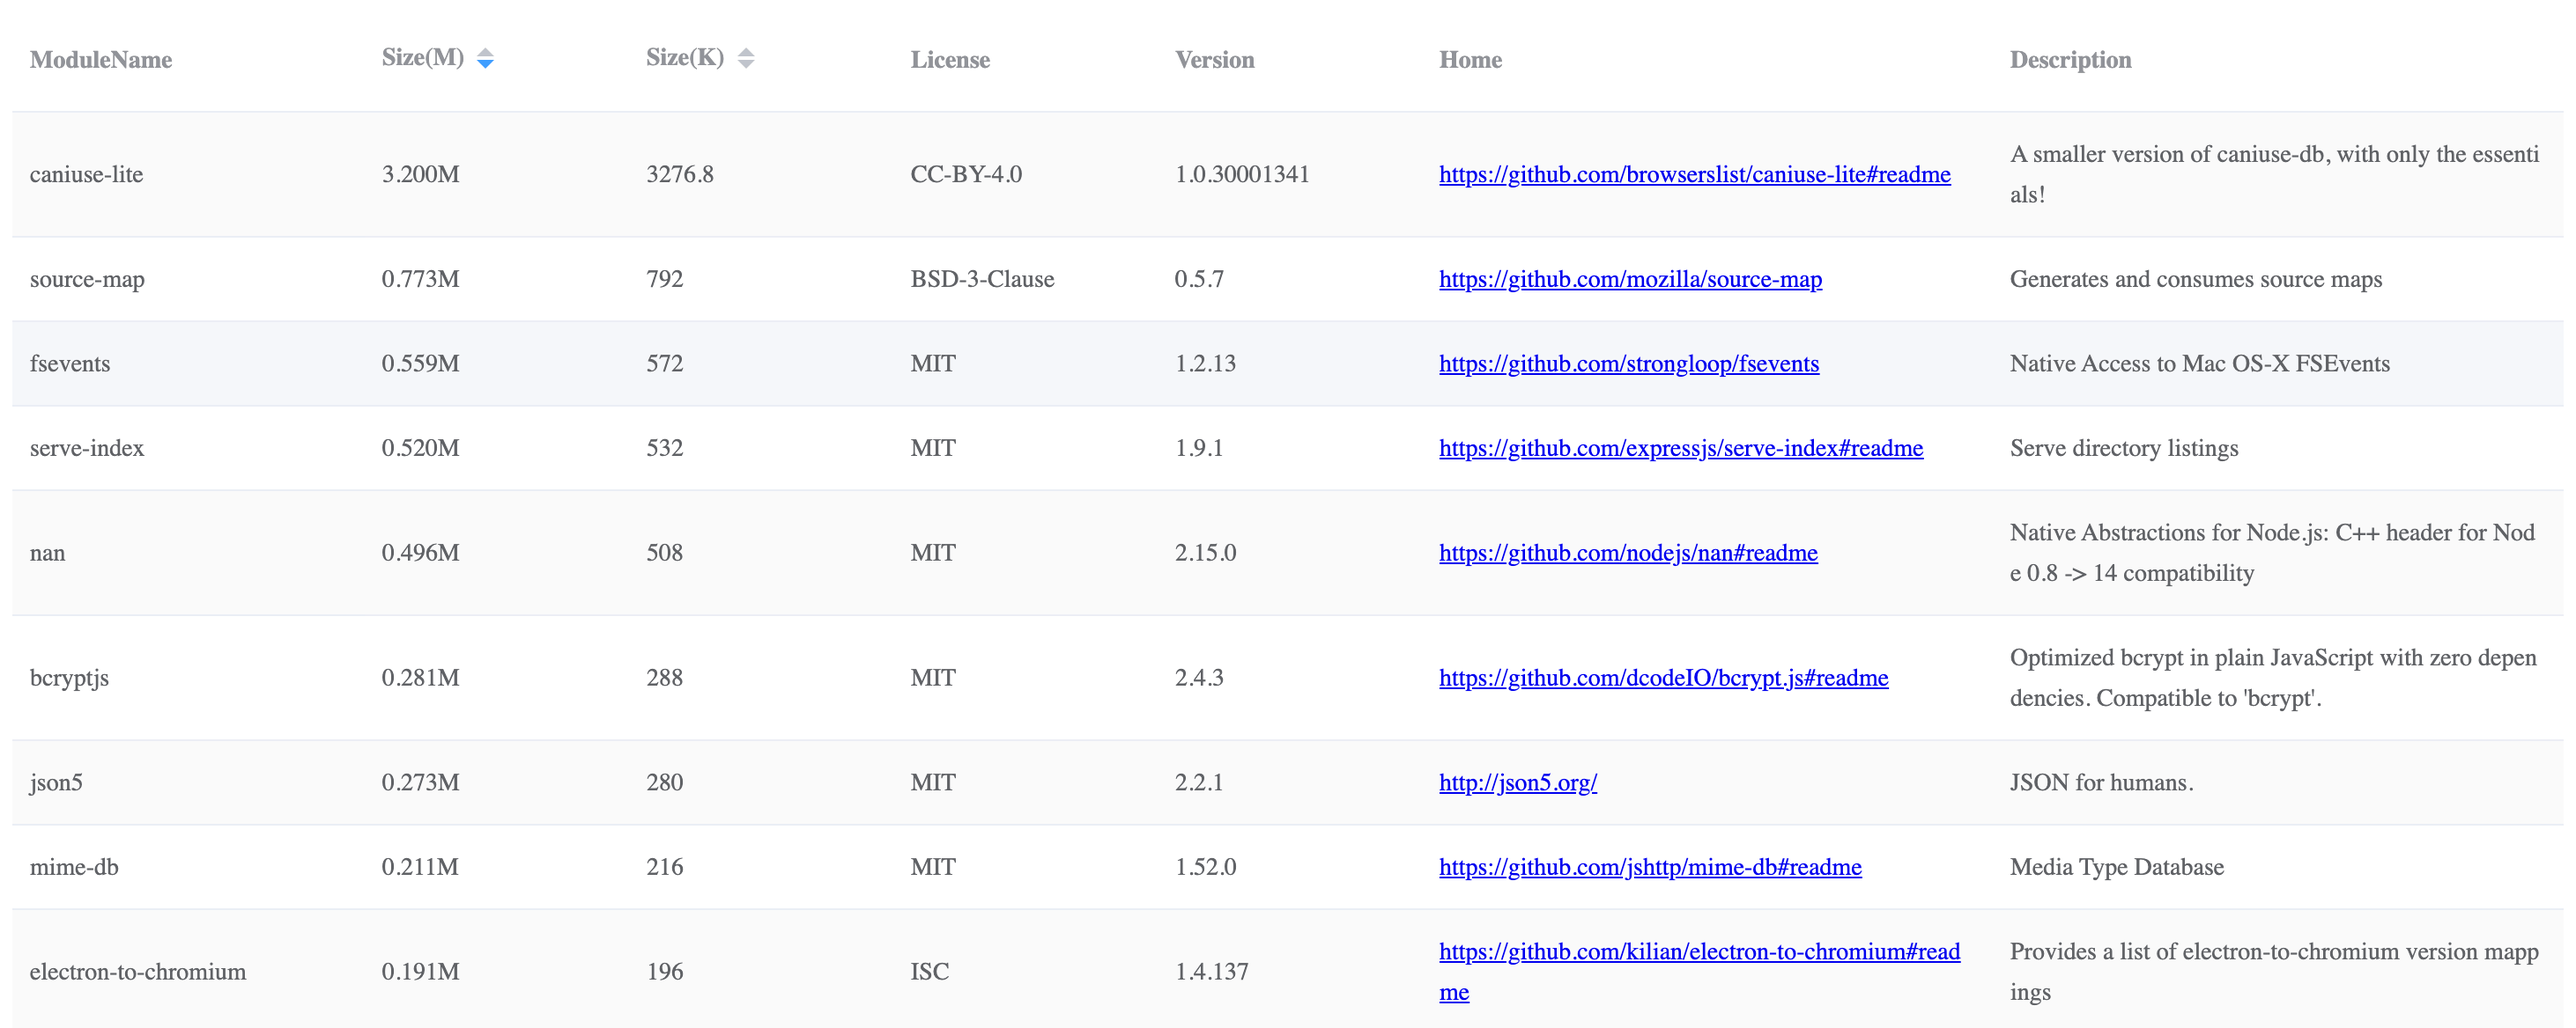
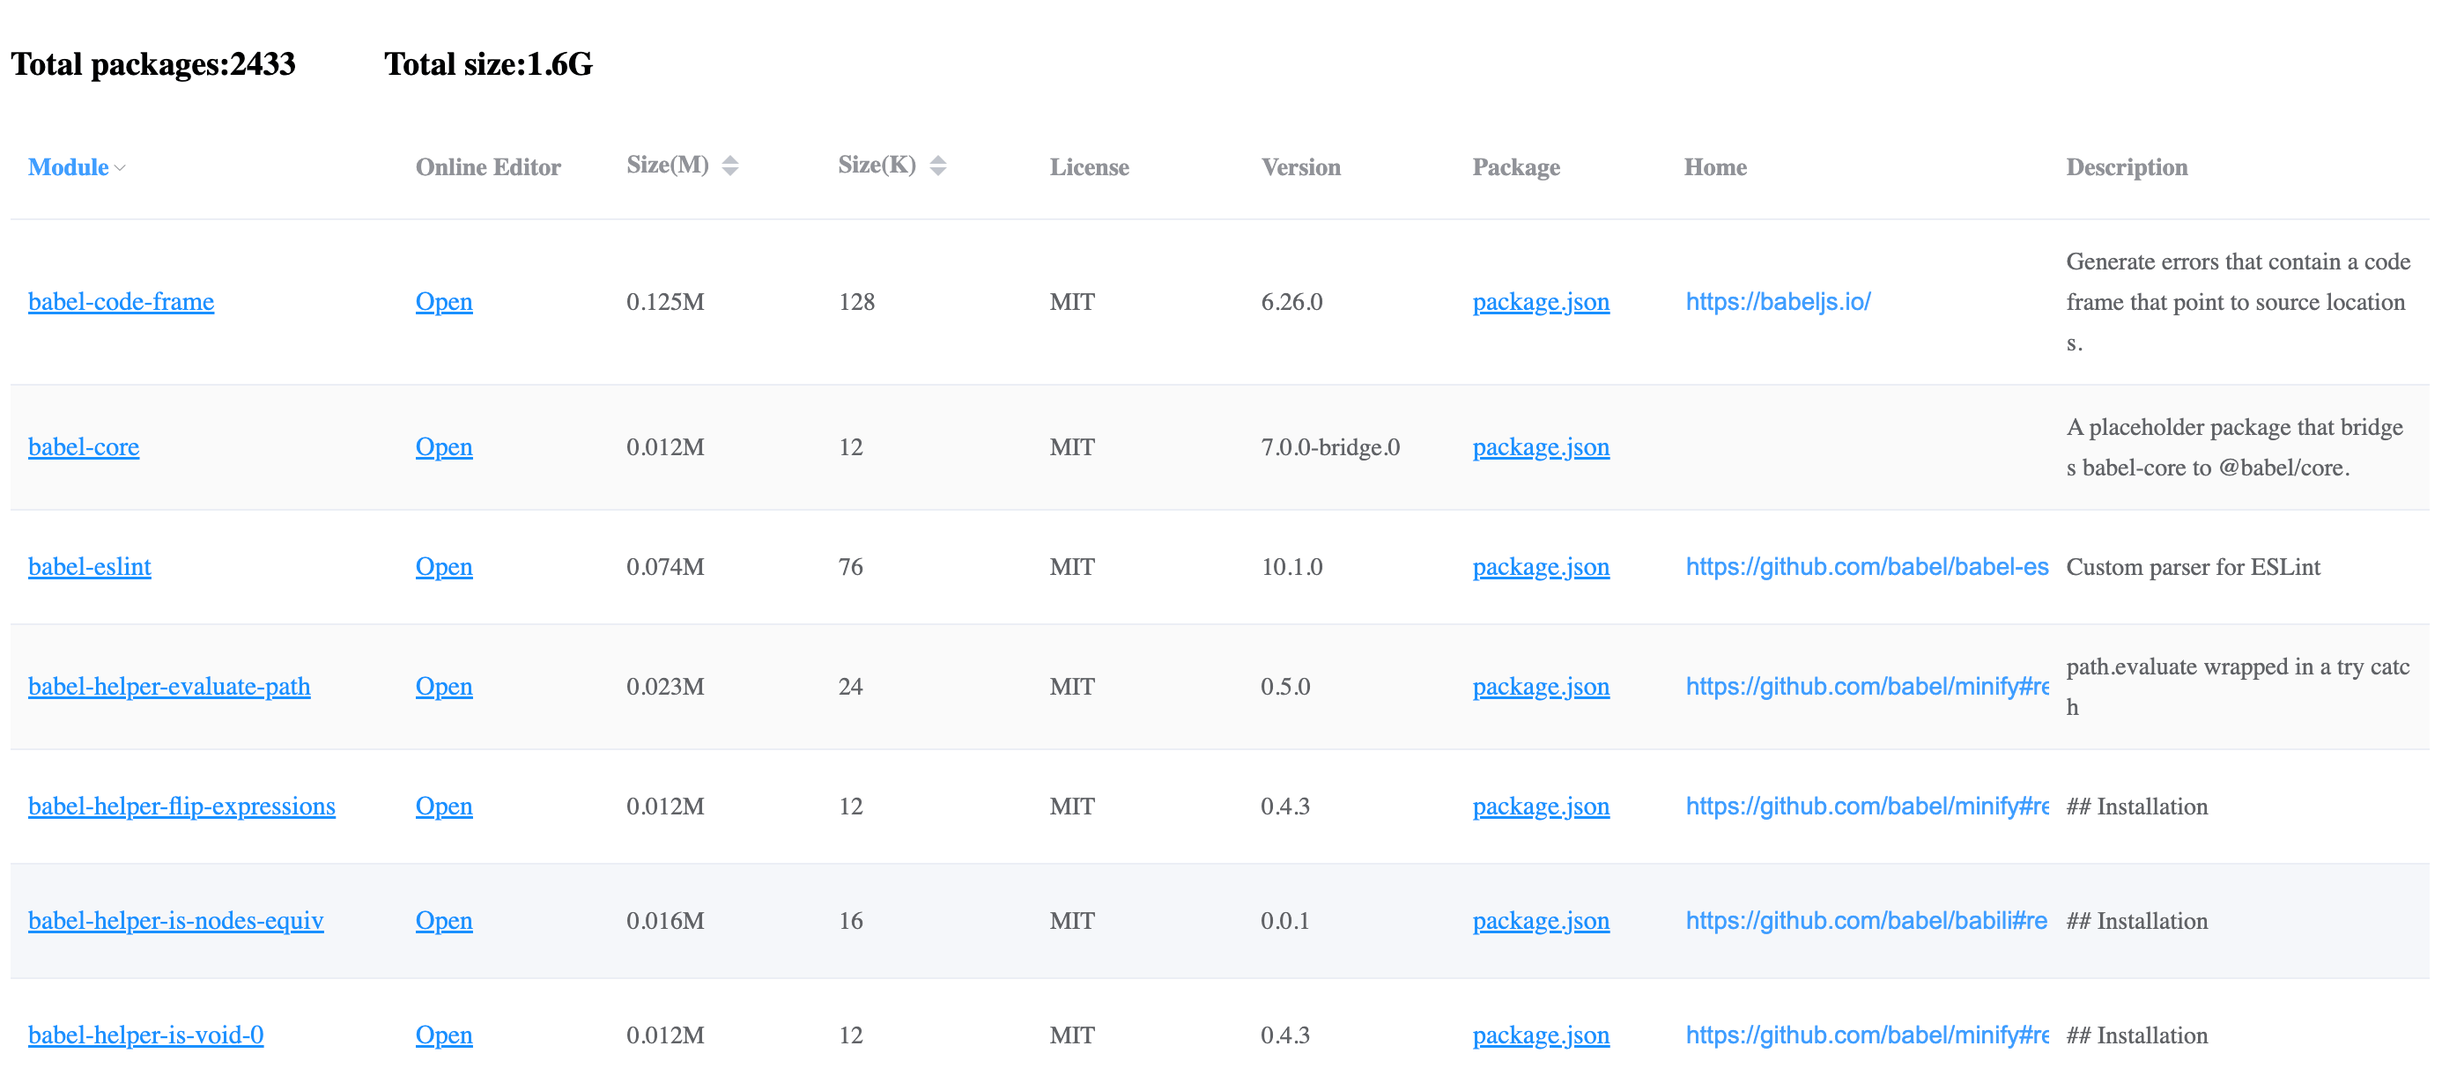
feat: open module in online editor

diff --git a/src/index.js b/src/index.js
@@ -21,7 +21,7 @@ function splitLine(output) {
     size: total,
     sizeM: (total / 1024).toFixed(3) + 'M',
     module: file,
-    id: Math.random()
+    id: Math.random(),
   };
 }
 
@@ -40,9 +40,8 @@ async function getSubModules(modulesPath) {
       }),
   );
   const subModules = await Promise.all(promises);
-  return subModules.filter(v => v);
+  return subModules.filter((v) => v);
 }
-
 
 async function getDeps(modulePath) {
   const packagePath = path.join(modulePath, 'package.json');
@@ -53,40 +52,84 @@ async function getDeps(modulePath) {
       memo[k] = package[k] && !package[k].includes('`') ? package[k] : '';
       return memo;
     }, {});
+    let editUrl = '';
+    if (typeof package.repository === 'string') {
+      editUrl = package.repository;
+    } else if (typeof package.repository === 'object') {
+      editUrl = package.repository.url;
+    }
+
+    if (editUrl.includes('://')) {
+      [, editUrl] = editUrl.match(/:\/\/(.*)$/);
+    }
+
+    if (editUrl.endsWith('.git')) {
+      editUrl = editUrl.substring(0, editUrl.length - 4);
+    }
+    editUrl = editUrl.replace('.com', '.dev');
+    pickPackage.editUrl = `https://${editUrl}`;
     return pickPackage;
   } catch (error) {
     return {};
   }
 }
 
+function execPromise(commnad, options) {
+  return new Promise((resolve, reject) => {
+    exec(commnad, options, (err, stdout) => {
+      err ? reject(err) : resolve(stdout.split('\t')[0]);
+    });
+  });
+}
+
 (async () => {
   const modulesPath = path.resolve(process.cwd(), './node_modules');
-  const ora = await import("ora");
+  const ora = await import('ora');
   const spinner = ora.default('Loading...');
   try {
     spinner.start();
+    const totalSize = await execPromise(`du -sh node_modules`);
+    let totalPackages = 0;
     const files = await fs.readdir(modulesPath);
-    const allProcess = files.filter(v => !v.startsWith('.')).map(
-      (file) =>
-        new Promise((resolve, reject) => {
-          exec(`du -sh ${file}`, { cwd: modulesPath }, async (err, stdout) => {
-            if (err) return reject(err);
-            const module = splitLine(stdout);
-            // 处理@开头的包
-            if (file.startsWith('@')) {
-              module.children = await getSubModules(path.join(modulesPath, file));
-            } else if (module) {
-              // 获取依赖
-              module.package = await getDeps(path.join(modulesPath, file));
-            }
-            resolve(module);
-          });
-        }),
-    );
+    const allProcess = files
+      .filter((v) => !v.startsWith('.'))
+      .map(
+        (file) =>
+          new Promise((resolve, reject) => {
+            exec(
+              `du -sh ${file}`,
+              { cwd: modulesPath },
+              async (err, stdout) => {
+                if (err) return reject(err);
+                const module = splitLine(stdout);
+                // 处理@开头的包
+                if (file.startsWith('@')) {
+                  module.children = await getSubModules(
+                    path.join(modulesPath, file),
+                  );
+                  module.children.forEach(m => {
+                    m.packageDir = `/${file}/${m.module}`;
+                  });
+                  totalPackages += module.children.length;
+                } else if (module) {
+                  // 获取依赖
+                  module.package = await getDeps(path.join(modulesPath, file));
+                  module.packageDir = `/${module.module}`;
+                  totalPackages += 1;
+                }
+                resolve(module);
+              },
+            );
+          }),
+      );
 
     const outputs = await Promise.all(allProcess);
     spinner.succeed();
-    startServer(outputs.filter((v) => v));
+    startServer({
+      modules: outputs.filter((v) => v),
+      totalSize,
+      totalPackages,
+    });
   } catch (err) {
     spinner.fail();
     console.error(err);

diff --git a/src/server.js b/src/server.js
@@ -4,22 +4,21 @@ const path = require('path');
 const url = require('url');
 const mime = require('mime');
 const { createReadStream, readFileSync } = require('fs');
-const ejs = require('ejs')
-
+const ejs = require('ejs');
 
 function sendFile(filePath, req, res) {
   res.setHeader('Content-Type', mime.getType(filePath) + ';charset=utf-8');
   createReadStream(filePath).pipe(res);
 }
 
-function start(modules, port = 8080) {
-  const template = readFileSync(path.resolve(__dirname, './template.html'), {encoding: 'utf-8'});
-  
-  // const data = template.replace('<!-- insert-data -->', `<script> 
-  // var modules = ${JSON.stringify(modules)};
-  // </script>`);
-  
-  const data = template.replace('// <!-- insert-data -->', `window.modules = ${JSON.stringify(modules)};`);
+function start(datas, port = 8080) {
+  const { modules, totalSize, totalPackages } = datas;
+  const template = readFileSync(path.resolve(__dirname, './template.html'), {
+    encoding: 'utf-8',
+  });
+
+  const code = `window.datas = ${JSON.stringify(datas)};`;
+  const data = template.replace('// <!-- insert-data -->', code);
 
   const server = http.createServer(async (req, res) => {
     if (req.url.endsWith('favicon.ico')) {
@@ -39,10 +38,13 @@ function start(modules, port = 8080) {
         let stateObj = await fs.stat(filePath);
         if (stateObj.isFile()) {
           sendFile(filePath, req, res);
-        }else {
+        } else {
           let dirs = await fs.readdir(filePath);
-          dirs = dirs.map(dir => ({dir, href: path.join(pathname, dir)}));
-          const html = await ejs.renderFile(path.resolve(__dirname, 'ejs.html'), { dirs });
+          dirs = dirs.map((dir) => ({ dir, href: path.join(pathname, dir) }));
+          const html = await ejs.renderFile(
+            path.resolve(__dirname, 'ejs.html'),
+            { dirs },
+          );
           res.end(html);
         }
       } catch (error) {
@@ -61,14 +63,12 @@ function start(modules, port = 8080) {
   }
 
   listen();
-  
+
   server.on('error', () => {
     server.close();
     port++;
     listen();
   });
 }
-
-
 
 module.exports = start;

diff --git a/src/template.html b/src/template.html
@@ -21,10 +21,20 @@
 </head>
 <body>
   <div id="app">
+    <div style="display: flex;">
+      <h3 style="margin-right: 50px;">Total packages: {{totalPackages}}</h3>
+      <h3>Total size: {{totalSize}}</h3>
+    </div>
+    
     <el-table :data="modules" row-key="id" stripe style="width: 100%">
       <el-table-column prop="module" width="220" label="Module" :filters="filters" :filter-method="filterHandler">
         <template slot-scope="scope">
-          <a :href="`/${scope.row.module}`">{{scope.row.module}}</a>
+          <a :href="scope.row.packageDir">{{scope.row.module}}</a>
+        </template>
+      </el-table-column>
+      <el-table-column prop="package.editUrl" width="120" label="Online Editor">
+        <template slot-scope="scope" v-if="scope.row.package && scope.row.package.editUrl">
+          <a :href="scope.row.package.editUrl" target="_blank">Open</a>
         </template>
       </el-table-column>
       <el-table-column prop="sizeM" sortable sort-by="size" width="120" label="Size(M)"></el-table-column>
@@ -33,7 +43,7 @@
       <el-table-column prop="package.version" width="120" label="Version"></el-table-column>
       <el-table-column prop="module" width="120" label="Package">
         <template slot-scope="scope" v-if="scope.row.module && !scope.row.module.startsWith('@')">
-          <a :href="`/${scope.row.module}/package.json`">package.json</a>
+          <a :href="`/${scope.row.module}/package.json`" target="_blank">package.json</a>
         </template>
       </el-table-column>
       <el-table-column prop="package.homepage"  label="Home">
@@ -47,10 +57,11 @@
   <script src="https://cdn.bootcdn.net/ajax/libs/vue/2.6.9/vue.min.js"></script>
   <script src="https://unpkg.com/element-ui/lib/index.js"></script>
   <script>
+    var { modules, totalSize, totalPackages } = window.datas;
     new Vue({
       el: '#app',
       data: function() {
-        return { filters: [] }
+        return { filters: [], totalSize, totalPackages }
       },
       mounted() {
         const filterStr = 'abcdefghijklmnopqrstuvwxyz';
